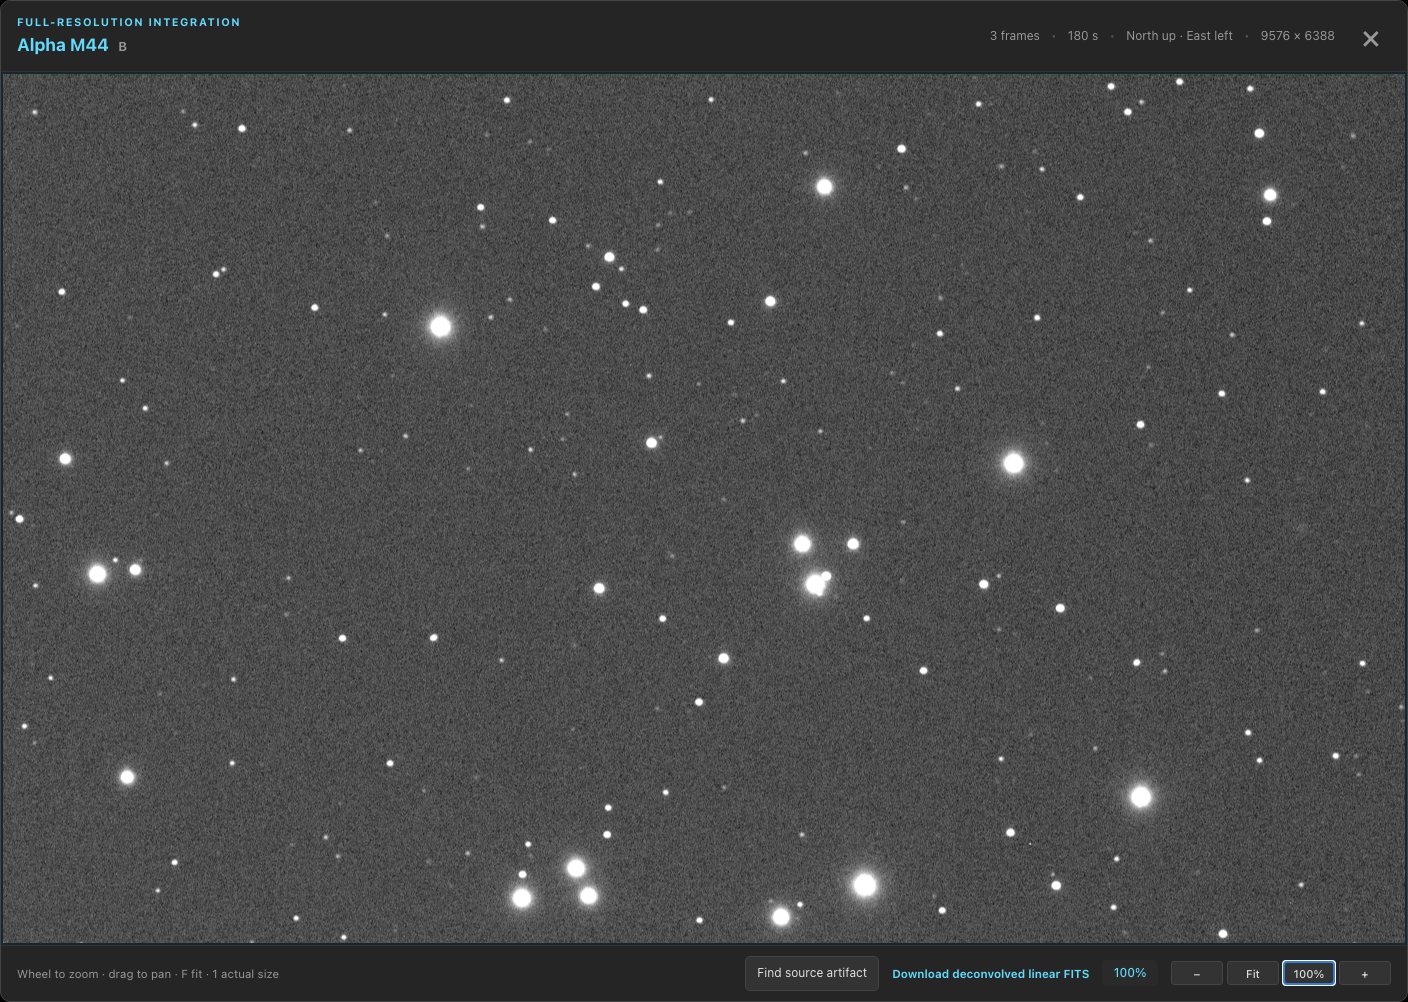
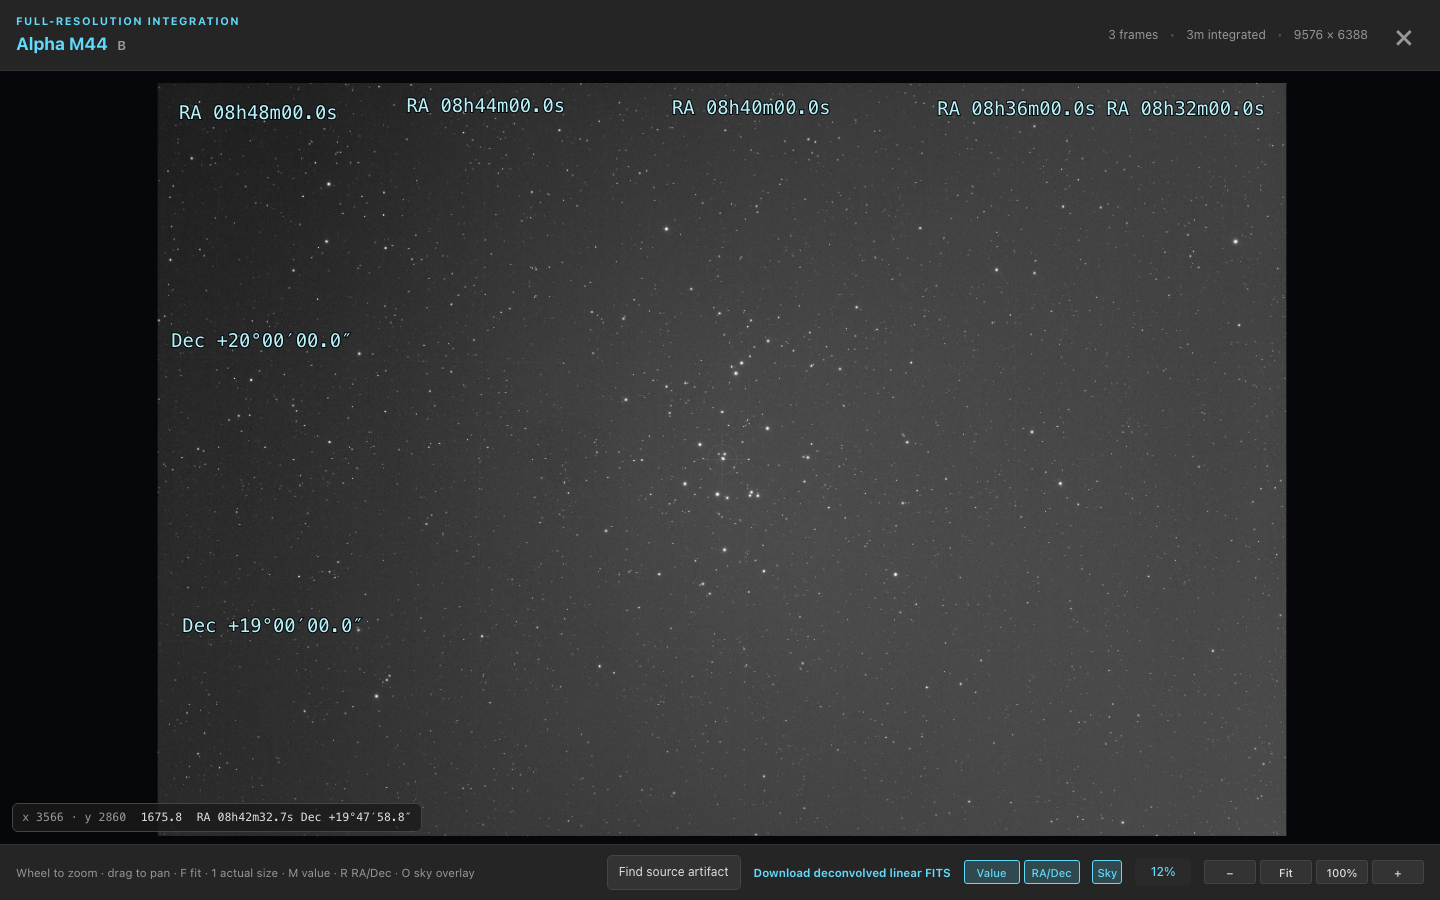
Capture the full-window inspector and the pointer readout
The real-stack test solves one integrated frame, then checks that the
inspector fills the window and that M, R and O give the value, RA/Dec and
sky grid under the pointer. A new detail-view test reads a frame's value
and RA/Dec from its embedded WCS. With PSF_GUARD_CAPTURE_DOCS=1 they write
the inspector at desktop and phone width and the reviewer's readout, and
the stack test restores its view before the artifact search.

Claude-Session: https://claude.ai/code/session_01QRRMrqiH2vB7WUWPTee9mb

diff --git a/static/e2e/stack-preview.spec.ts b/static/e2e/stack-preview.spec.ts
@@ -1083,9 +1083,19 @@ test('builds a real three-frame Seiza stack and exposes its frame decisions', as
     });
   }
 
+  // RA/Dec in the inspector comes from an integrated frame's plate solution,
+  // so solve the frame that has only acquisition coordinates.
+  const solve = await page.request.post(
+    `/api/db/${encodeURIComponent(dbId)}/images/2/astrometry`,
+    { timeout: 60_000 }
+  );
+  expect(solve.ok()).toBeTruthy();
+
   await panel.getByRole('button', { name: 'Inspect full size' }).click();
   const inspector = page.getByRole('dialog', { name: /Alpha M44/i });
   await expect(inspector).toBeVisible();
+  // The inspector fills the window, as the reviewer's detail view does.
+  expect(await inspector.boundingBox()).toEqual({ x: 0, y: 0, width: 1440, height: 1600 });
 
   const fullSizeImage = inspector.getByTestId('stack-inspector-image');
   await page.waitForFunction(
@@ -1134,23 +1144,64 @@ test('builds a real three-frame Seiza stack and exposes its frame decisions', as
   const canvas = inspector.locator('.stack-inspector-canvas');
   const canvasBox = await canvas.boundingBox();
   expect(canvasBox).not.toBeNull();
-  await page.mouse.move(canvasBox!.x + canvasBox!.width / 2, canvasBox!.y + canvasBox!.height / 2);
-  await page.mouse.down();
-  await page.mouse.move(
-    canvasBox!.x + canvasBox!.width / 2 + 120,
-    canvasBox!.y + canvasBox!.height / 2 + 80,
-    { steps: 4 }
-  );
-  await page.mouse.up();
+  const panFromCentre = async () => {
+    await page.mouse.move(canvasBox!.x + canvasBox!.width / 2, canvasBox!.y + canvasBox!.height / 2);
+    await page.mouse.down();
+    await page.mouse.move(
+      canvasBox!.x + canvasBox!.width / 2 + 120,
+      canvasBox!.y + canvasBox!.height / 2 + 80,
+      { steps: 4 }
+    );
+    await page.mouse.up();
+  };
+  await panFromCentre();
   await expect
     .poll(() => fullSizeImage.evaluate((image) => image.style.transform))
     .not.toBe(transformBeforePan);
+  const transformAfterPan = await fullSizeImage.evaluate((image) => image.style.transform);
+
+  // M and R read the stack's linear value and sky position under the
+  // pointer, and O draws the solved frame's sky grid over it.
+  const readout = inspector.getByTestId('pointer-readout');
+  const skyOverlay = inspector.getByTestId('stack-inspector-sky-overlay');
+  await page.keyboard.press('m');
+  await page.keyboard.press('r');
+  await page.keyboard.press('o');
+  await page.mouse.move(canvasBox!.x + canvasBox!.width * 0.4, canvasBox!.y + canvasBox!.height * 0.45);
+  await expect(readout.getByTestId('pointer-readout-value')).toHaveText(/^-?\d/, { timeout: 15_000 });
+  await expect(readout.getByTestId('pointer-readout-sky')).toHaveText(/^RA 08h\d\dm.* Dec \+\d\d°/);
+  await expect(skyOverlay).toBeVisible();
 
   if (process.env.PSF_GUARD_CAPTURE_DOCS === '1') {
     const docs = path.resolve(process.cwd(), '..', 'docs');
-    fs.mkdirSync(docs, { recursive: true });
-    await inspector.screenshot({ path: path.join(docs, 'stack-preview-inspection.png') });
+    fs.mkdirSync(path.join(docs, 'images'), { recursive: true });
+    for (const [viewport, file] of [
+      [{ width: 1440, height: 900 }, 'stack-preview-inspection.png'],
+      [{ width: 390, height: 844 }, 'images/stack-inspector-readout-phone.png'],
+    ] as const) {
+      await page.setViewportSize(viewport);
+      await inspector.getByRole('button', { name: 'Fit', exact: true }).click();
+      const box = (await canvas.boundingBox())!;
+      await page.mouse.move(box.x + box.width * 0.4, box.y + box.height * 0.45);
+      await expect(readout.getByTestId('pointer-readout-value')).toHaveText(/^-?\d/, { timeout: 15_000 });
+      await inspector.screenshot({ path: path.join(docs, file), animations: 'disabled' });
+    }
+    // Back to the view the artifact search below starts from.
+    await page.setViewportSize({ width: 1440, height: 1600 });
+    await inspector.getByRole('button', { name: 'Fit', exact: true }).click();
+    await inspector.getByRole('button', { name: '100%' }).click();
+    await panFromCentre();
+    await expect
+      .poll(() => fullSizeImage.evaluate((image) => image.style.transform))
+      .toBe(transformAfterPan);
   }
+
+  // Turn the readout and sky grid off again for the artifact search below.
+  await page.keyboard.press('m');
+  await page.keyboard.press('r');
+  await page.keyboard.press('o');
+  await expect(readout).toHaveCount(0);
+  await expect(skyOverlay).toHaveCount(0);
 
   await inspector.getByRole('button', { name: 'Find source artifact' }).click();
 

diff --git a/static/e2e/image-detail.spec.ts b/static/e2e/image-detail.spec.ts
@@ -1,4 +1,5 @@
 import { expect, test, type Page } from '@playwright/test';
+import * as path from 'path';
 import {
   fixtureImageDir,
   registerFixtureDb,
@@ -206,6 +207,38 @@ test('detail view loads the large preview and renders pixels', async ({
   }));
   expect(dims.natW).toBeGreaterThan(500);
   expect(dims.natH).toBeGreaterThan(500);
+});
+
+test('detail view reads the value and RA/Dec under the pointer', async ({ page }) => {
+  await page.setViewportSize({ width: 1440, height: 900 });
+  await page.goto(`/#/detail/1?db=${encodeURIComponent(dbId)}&project=1`);
+  const img = page.locator('.zoom-container img.detail-main-image').first();
+  await page.waitForFunction(
+    (el) => el instanceof HTMLImageElement && el.complete && el.naturalWidth > 0,
+    await img.elementHandle(),
+    { timeout: 30_000 }
+  );
+
+  // This frame's embedded WCS gives RA/Dec without a solve.
+  const toggles = page.getByRole('group', { name: 'Pointer readout' });
+  await expect(toggles.getByRole('button', { name: 'RA/Dec' })).toBeEnabled({ timeout: 30_000 });
+  await page.keyboard.press('m');
+  await page.keyboard.press('r');
+  await expect(toggles.getByRole('button', { name: 'Value' })).toHaveAttribute('aria-pressed', 'true');
+  await expect(toggles.getByRole('button', { name: 'RA/Dec' })).toHaveAttribute('aria-pressed', 'true');
+
+  const box = (await page.locator('.zoom-container').first().boundingBox())!;
+  await page.mouse.move(box.x + box.width * 0.45, box.y + box.height * 0.45);
+  const readout = page.getByTestId('pointer-readout');
+  await expect(readout.getByTestId('pointer-readout-value')).toHaveText(/^-?\d/, { timeout: 15_000 });
+  await expect(readout.getByTestId('pointer-readout-sky')).toHaveText(/^RA 08h\d\dm.* Dec \+\d\d°/);
+
+  if (process.env.PSF_GUARD_CAPTURE_DOCS === '1') {
+    await page.screenshot({
+      path: path.resolve(process.cwd(), '..', 'docs', 'images', 'image-detail-readout-desktop.png'),
+      animations: 'disabled',
+    });
+  }
 });
 
 test('detail panels fold and stay folded from image to image and across a reload', async ({ page }) => {

diff --git a/docs/STACKING_PREVIEWS.md b/docs/STACKING_PREVIEWS.md
@@ -1329,7 +1329,7 @@ onto the stack's grid. **Sky** (**O**) draws the RA/Dec grid over the stack.
 When no integrated frame is solved, RA/Dec and **Sky** are disabled until you
 solve one in **Sky context**. The image viewer uses the same settings.
 
-![The native-resolution stack in PSF Guard's pan and zoom inspector](stack-preview-inspection.png)
+![The native-resolution stack filling the window, with its linear value and RA/Dec under the pointer and the sky grid drawn over it](stack-preview-inspection.png)
 
 Choose **Download linear FITS** on the card or in the inspector to retrieve the
 full-resolution floating-point integration from the cache. The FITS is

diff --git a/README.md b/README.md
@@ -460,6 +460,8 @@ Guard reads only the pixels near the pointer from the file, so a large stack
 does not have to load. RA/Dec needs a plate solution: solve the frame in
 **Sky context**, or, for a stack, solve one of its frames.
 
+![A frame's linear value and RA/Dec under the pointer in the image viewer](docs/images/image-detail-readout-desktop.png)
+
 Grades update the active catalog. When that catalog belongs to Target
 Scheduler, or you sync grades back to it, the scheduler can update accepted
 counts and replace rejected exposures. See [quality screening](docs/SCREENING.md)
